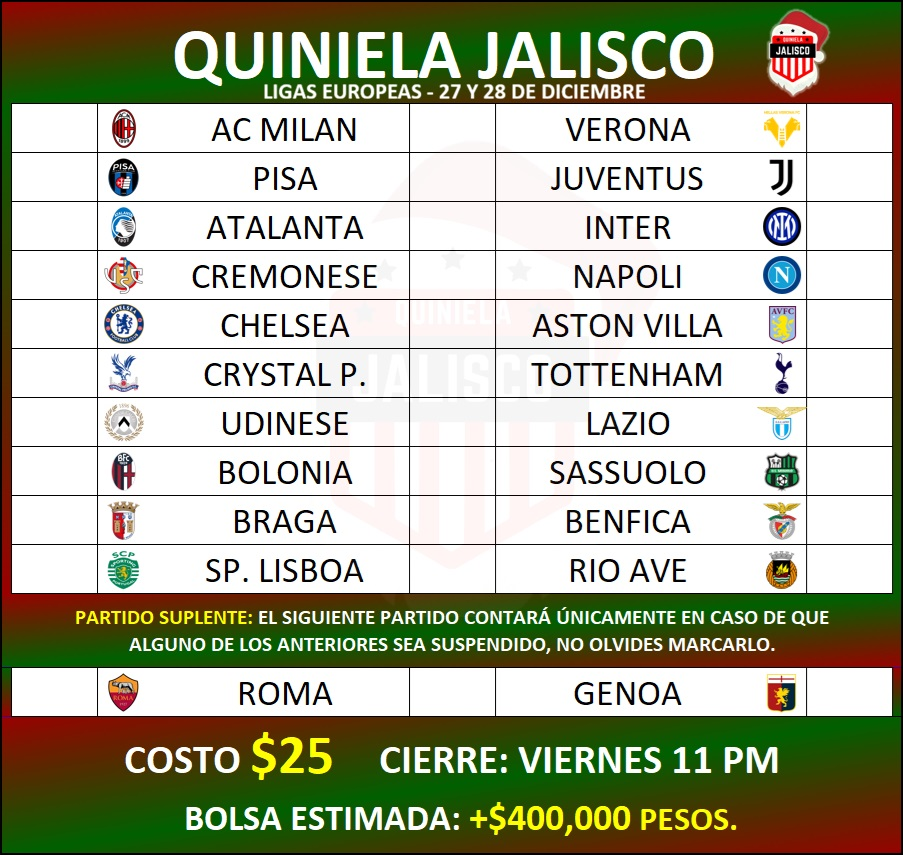
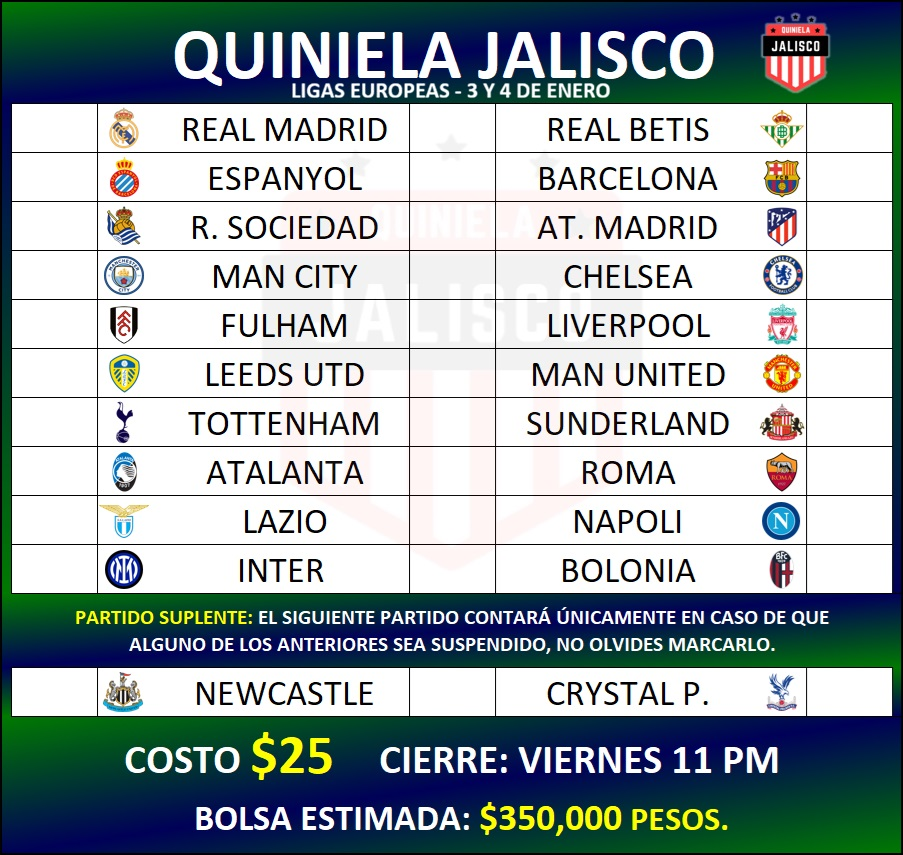
Ligas Europeas Ene26

diff --git a/index.html b/index.html
@@ -20,7 +20,7 @@
     <script src="https://quinielajal.github.io/Registro-1/var.js"></script>
     <script src="var.js?v=1.0.3"></script>
     <!-- <script src="lights.js"></script> -->
-    <script src='./snow.js' defer></script>
+    <!-- <script src='./snow.js' defer></script> -->
 </head>
 
 <body>
@@ -34,7 +34,7 @@
         </span>
     </p>
     <!-- Quiniela -->
-    <div id="snow"></div>
+    <!-- <div id="snow"></div> -->
     <div class="quiniela" id="quiniela">
         <div class="aux"><h3 style="padding: 5px 7px" onclick="clean()"><ion-icon name="close-outline"></ion-icon></h3></div>
         <div class="partido">
@@ -192,9 +192,9 @@
           PegasusDev
         </a>
     </div>
-<div class="d-flex justify-content-end" style="filter:opacity(0.3);">
+<!-- <div class="d-flex justify-content-end" style="filter:opacity(0.3);">
     <ion-icon style="filter:invert(1); margin-top:4px;" name="snow"></ion-icon>
     <div class="form-check form-switch"><input id="snowBtn" class="form-check-input" type="checkbox" checked></div>
-</div>
+</div> -->
 <br>
 </body>

diff --git a/11/styles11.css b/11/styles11.css
@@ -9,7 +9,7 @@ body{
     max-width: 400px;
     margin: auto;
     background-color: rgb(6,12,37);
-    background-image: url("../bg/fondo21.jpg");
+    background-image: url("../bg/fondo8.jpg");
     background-repeat: repeat-y;
     background-position: top;
 }
@@ -95,8 +95,8 @@ body{
     margin-top: 8.5%;
     border-top: solid 1px black;
     border-radius: 0 0 14px 14px;
-    background: -webkit-linear-gradient(0.49turn, rgb(1 95 0) -7%, rgb(132 14 0) 80%);
-    background: linear-gradient(0.49turn, rgb(1 95 0) -7%, rgb(132 14 0) 80%);
+    background: -webkit-linear-gradient(0.49turn, rgb(1 17 77) -7%, rgb(0 82 28) 80%);
+    background: linear-gradient(0.49turn, rgb(1 17 77) -7%, rgb(0 82 28) 80%);
 }
 
 .text-lg{
@@ -295,7 +295,7 @@ h6{
 }
 
 #cantidad:before{
-    content:'+$400,000 pesos';
+    content:'$350,000 pesos';
     color: yellow;
     white-space:pre;
 }
